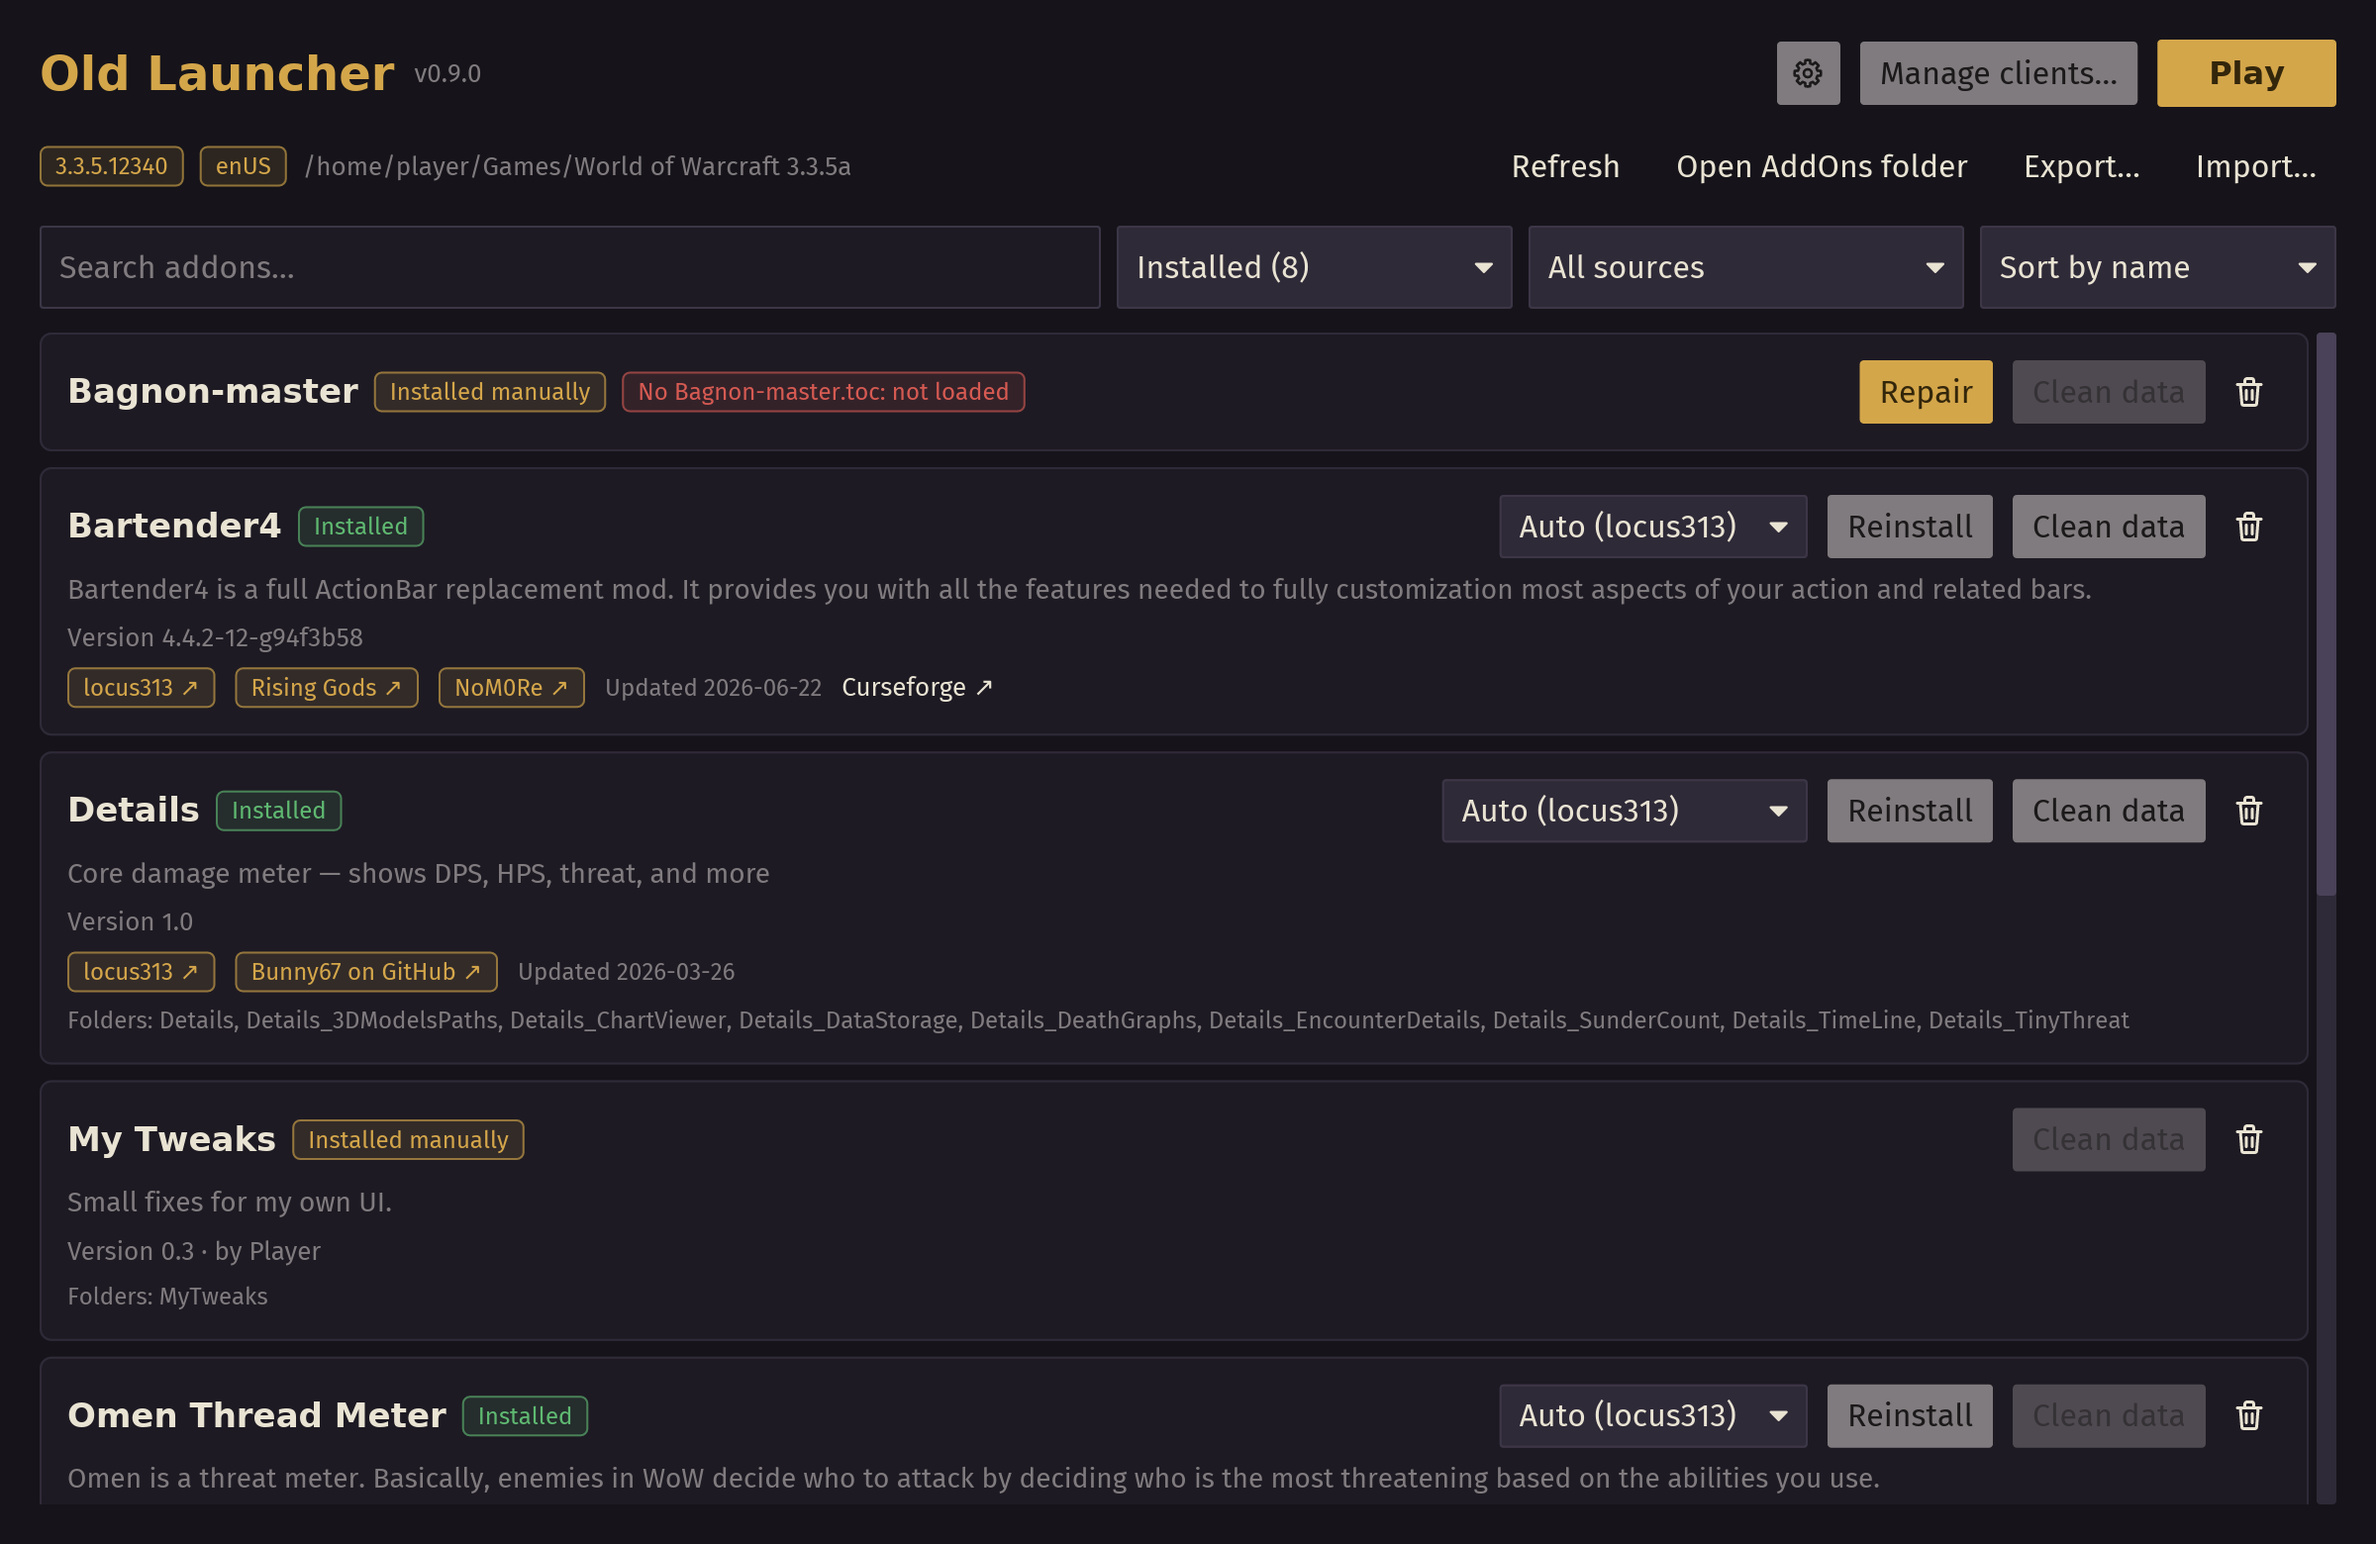
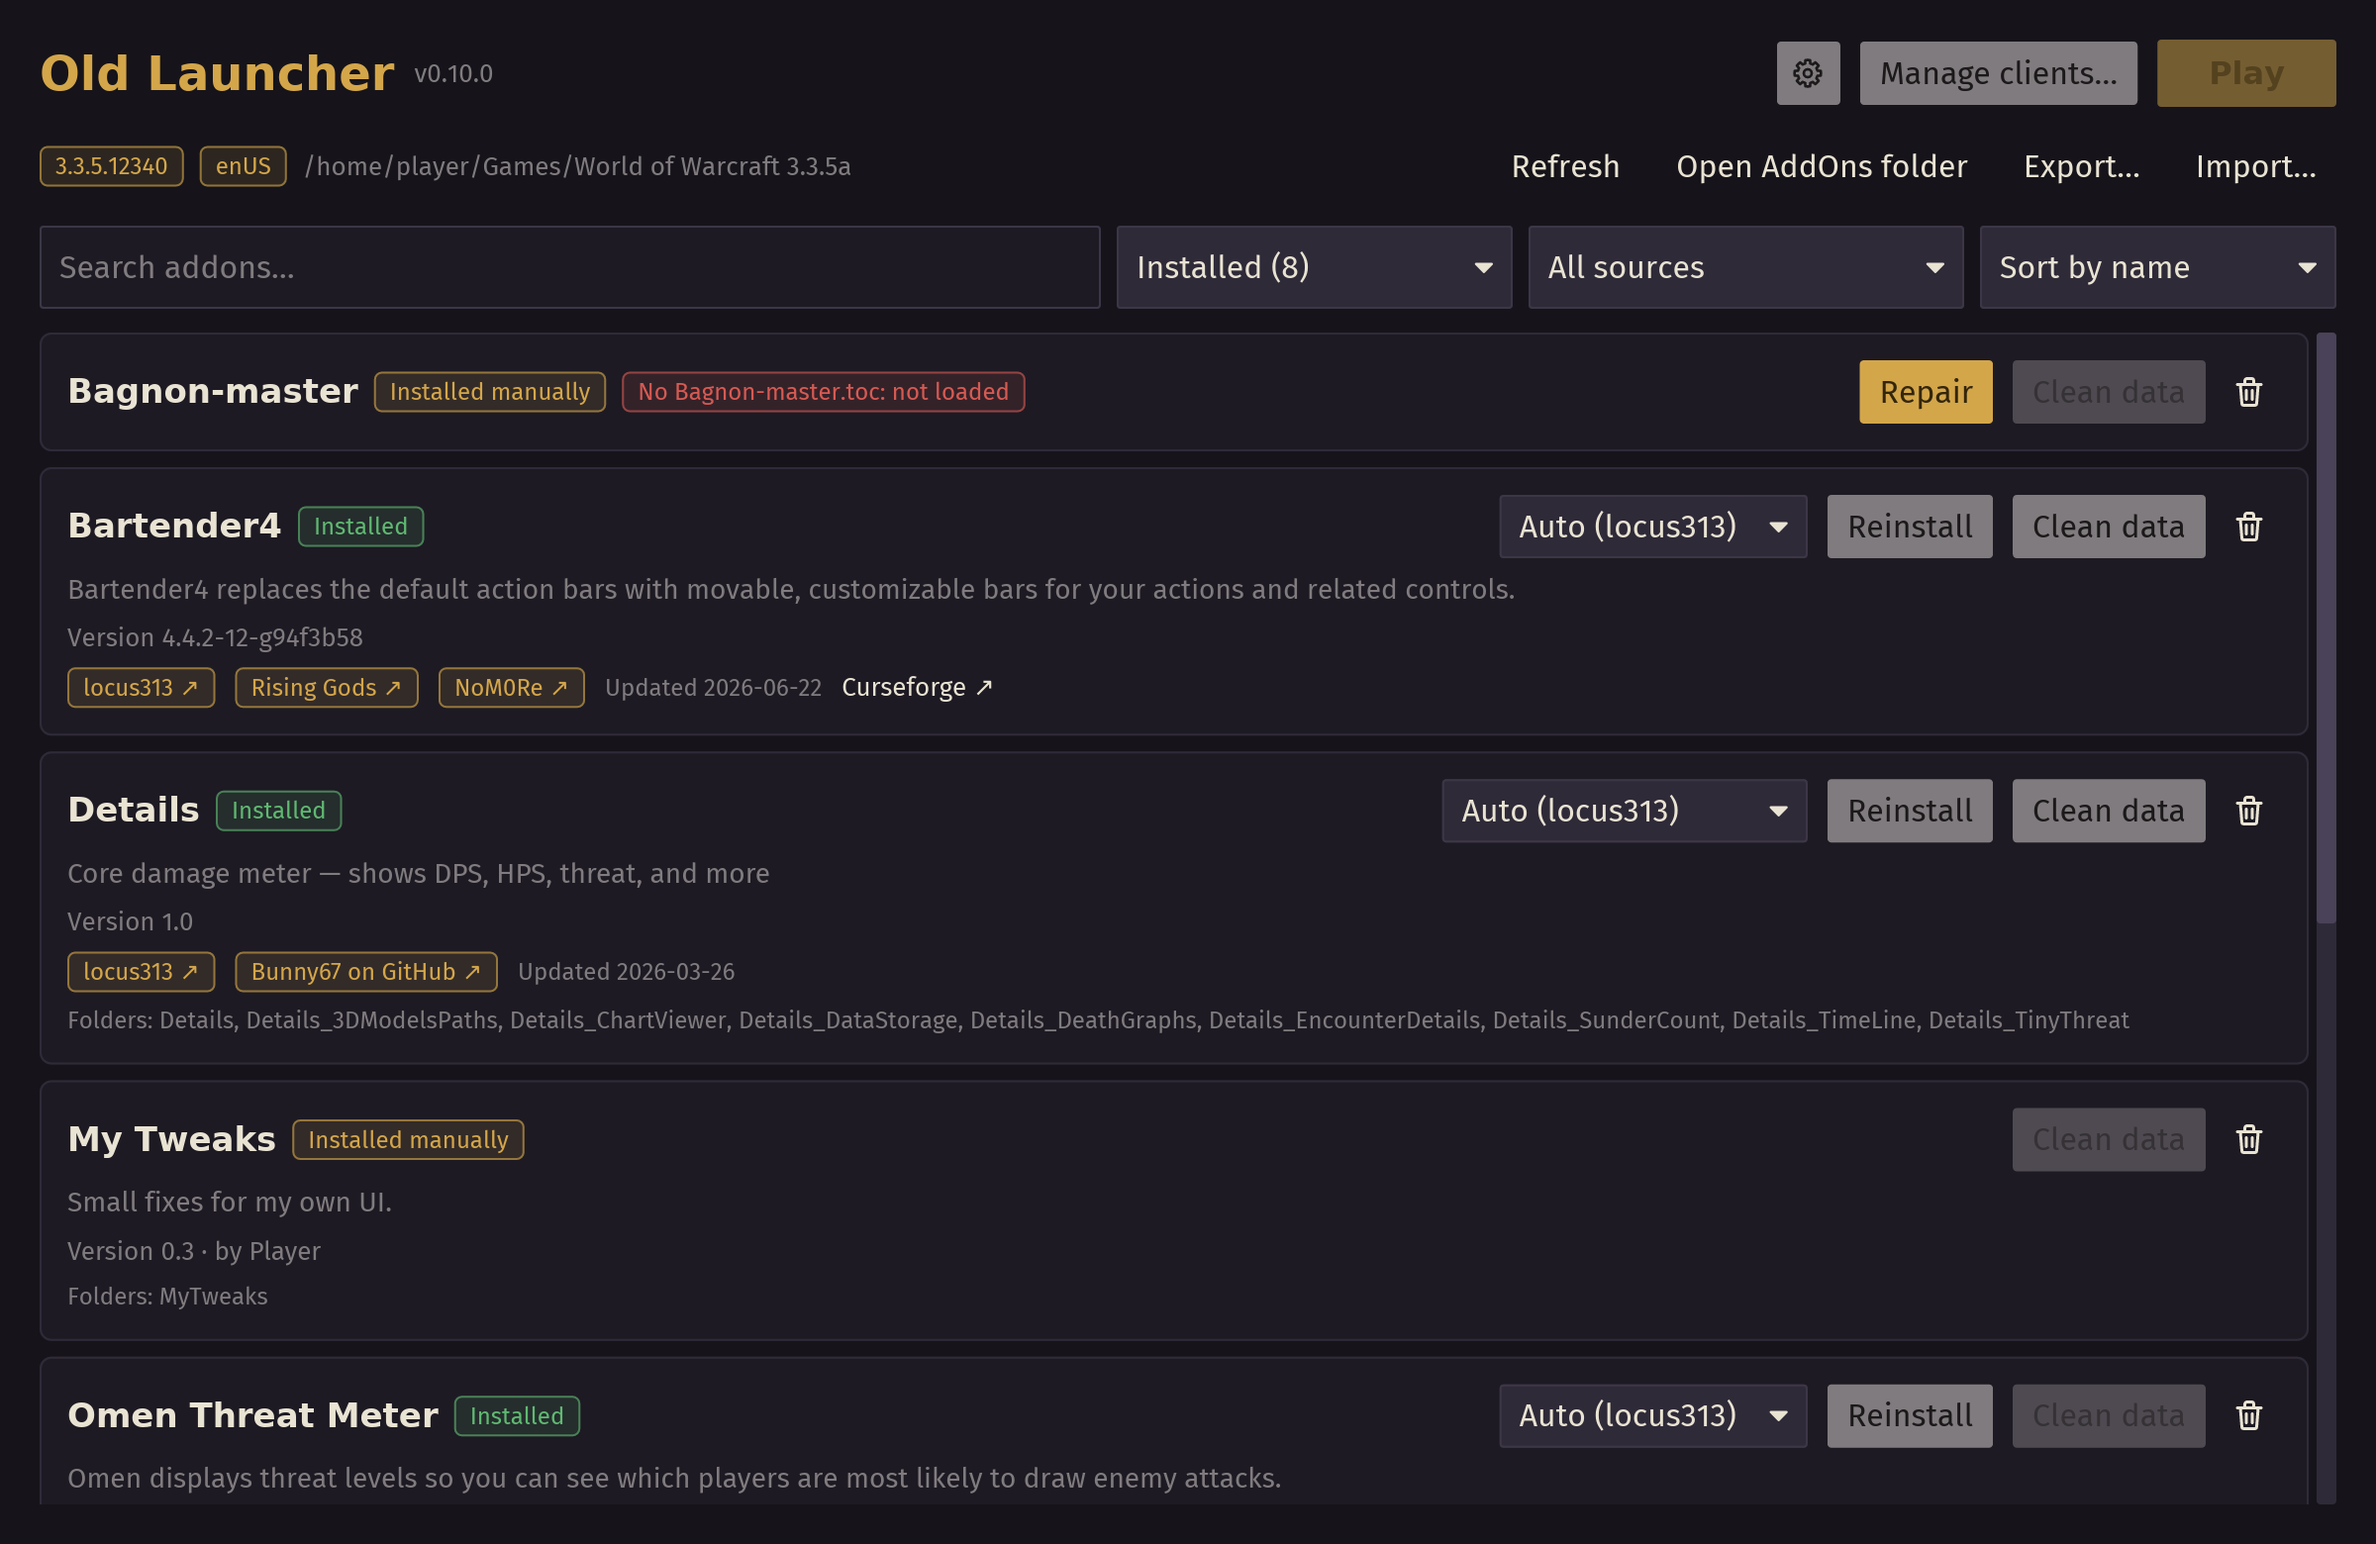
Bump the version to 0.10.0
The screenshots pick the demo's addons by the first folder each
installs, which their archive fixes, no longer by the name their
source gives them, which it may reword: Omen's was.

diff --git a/src/screenshots.rs b/src/screenshots.rs
@@ -24,12 +24,21 @@ fn screenshots() {
     let root = PathBuf::from(std::env::var("SCREENSHOT_CLIENT").unwrap());
     let out = std::env::var("SCREENSHOT_OUT").unwrap();
     let catalog = catalog::repository();
-    let entry = |name: &str| {
+    // Picked by the first folder they install, which their archive fixes,
+    // not by the name their source gives them, which it may reword (Omen's
+    // did): the first in the catalog's order, where several bring it.
+    let entry = |first: &str| {
         catalog
             .entries
             .iter()
-            .find(|entry| entry.name == name)
-            .unwrap_or_else(|| panic!("{name}"))
+            .find(|entry| {
+                entry
+                    .downloads
+                    .first()
+                    .and_then(|download| download.folders.first())
+                    .is_some_and(|folder| folder.name == first)
+            })
+            .unwrap_or_else(|| panic!("{first}"))
             .clone()
     };
     let write = |path: &Path, text: &str| {
@@ -78,20 +87,20 @@ fn screenshots() {
     }
     let addons = root.join("Interface/AddOns");
 
-    for name in [
+    for first in [
         "Bartender4",
         "Details",
-        "Questie",
+        "Questie-335",
         "WeakAuras",
-        "Omen Thread Meter",
-        "Prat",
+        "Omen",
+        "Prat-3.0",
     ] {
-        let entry = entry(name);
+        let entry = entry(first);
         let download = &entry.downloads[0];
         for folder in &download.folders {
-            let version = match name {
+            let version = match first {
                 // Behind the catalog, so its card offers an update.
-                "Questie" => "9.8.0-335".to_owned(),
+                "Questie-335" => "9.8.0-335".to_owned(),
                 _ => folder.version.clone().unwrap_or_else(|| "1.0".into()),
             };
             let toc = format!(
@@ -192,16 +201,12 @@ fn screenshots() {
             .collect(),
     };
     let plan = Plan {
-        install: [
-            "DBM Deadly Boss Mods Warmane",
-            "AtlasLoot Enhanced",
-            "Postal+",
-            "Recount",
-            "Grid2",
-        ]
-        .into_iter()
-        .map(entry)
-        .collect(),
+        // By their first folder too: DBM, AtlasLoot, Postal+, Recount and
+        // Grid2.
+        install: ["DBM-AQ20", "AtlasLoot", "Postal", "Recount", "Grid2"]
+            .into_iter()
+            .map(entry)
+            .collect(),
         present: vec![listed("Bartender4"), listed("Details"), listed("Questie")],
         unavailable: Vec::new(),
         manual: vec![listed("MyTweaks")],
